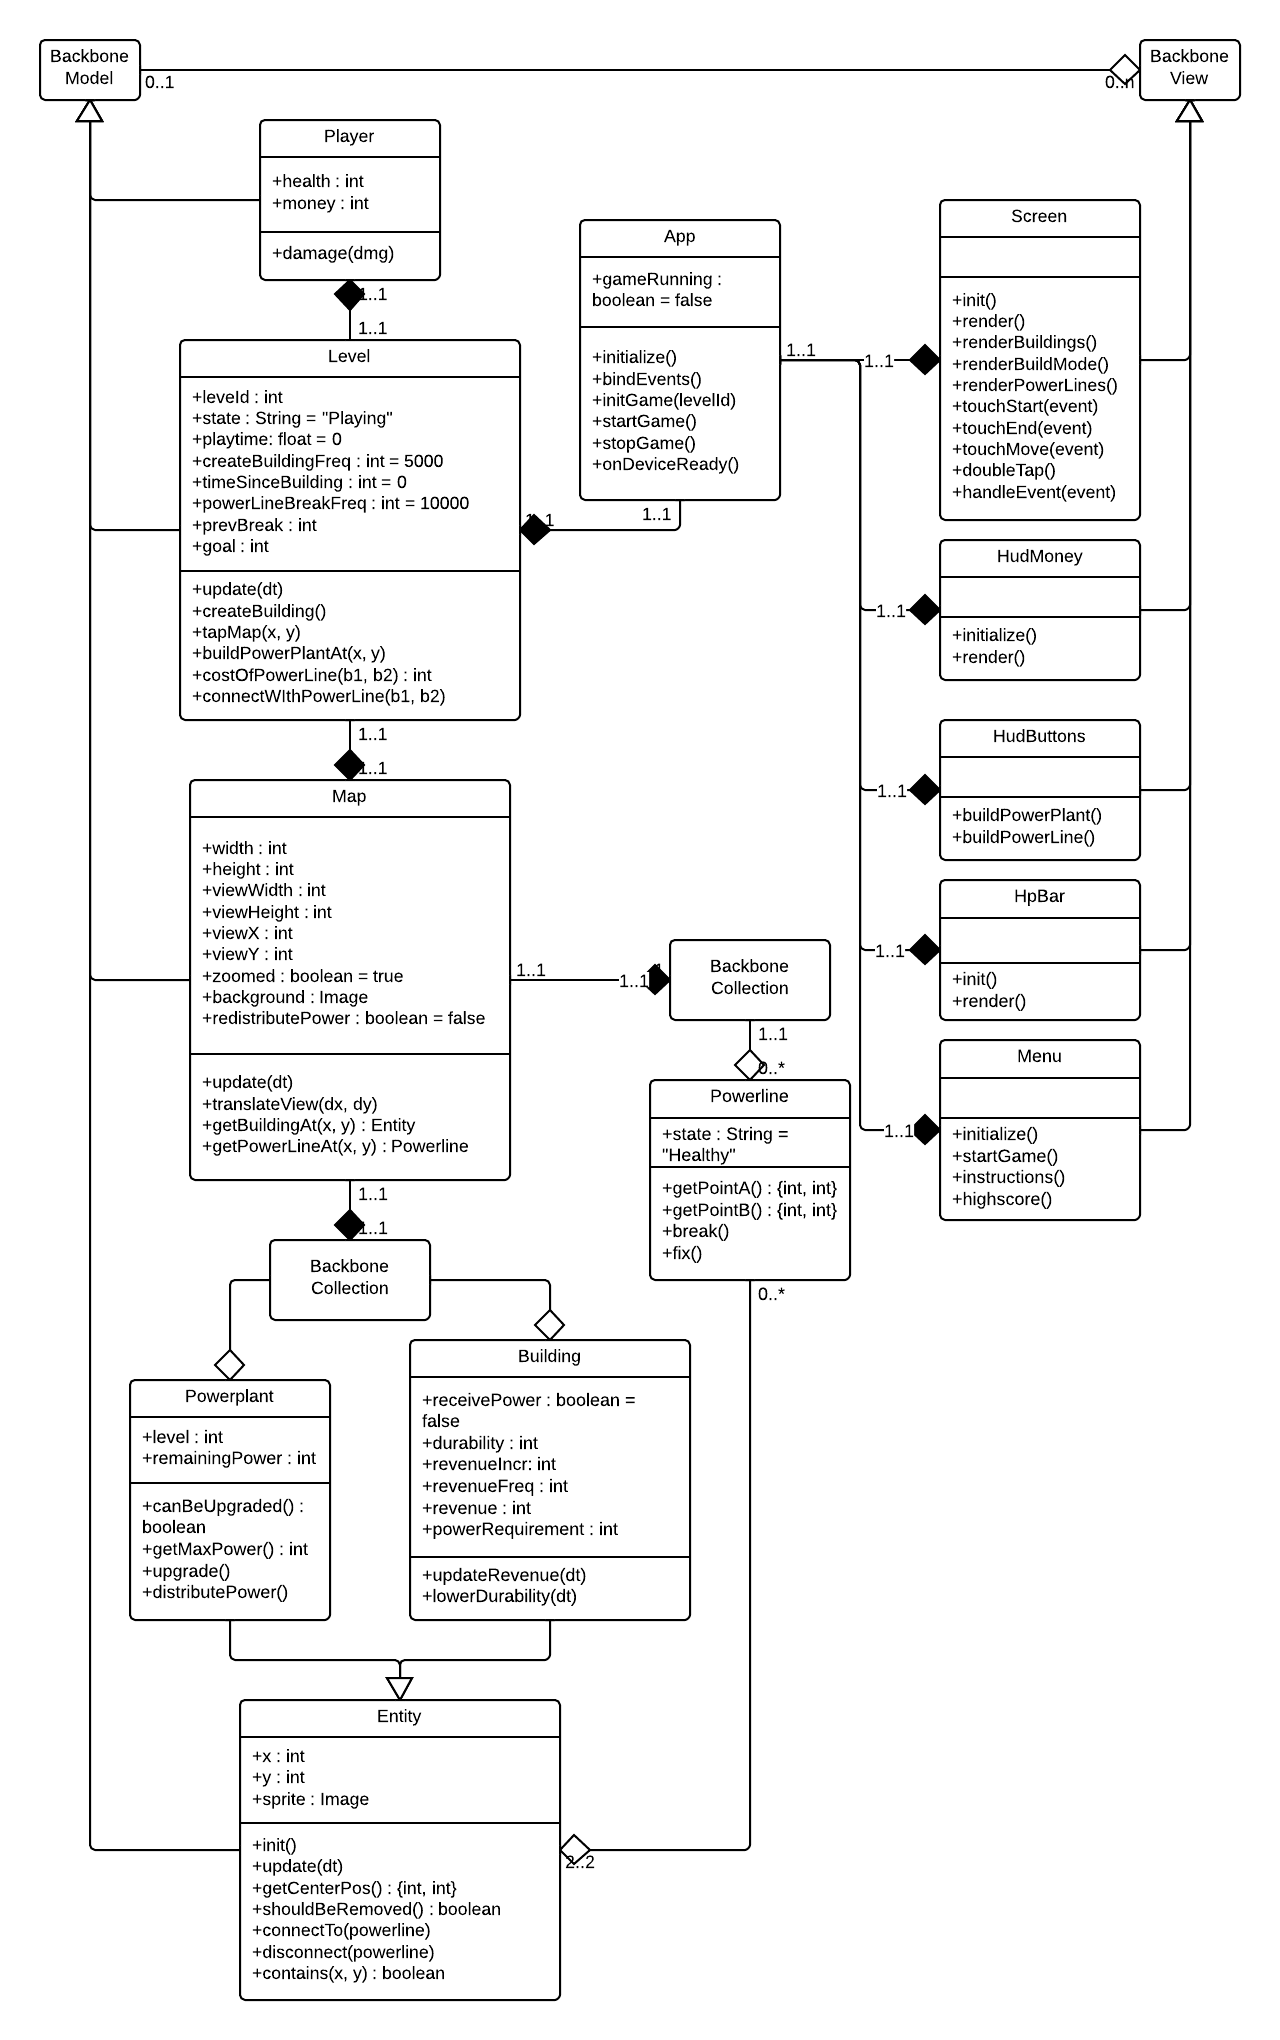
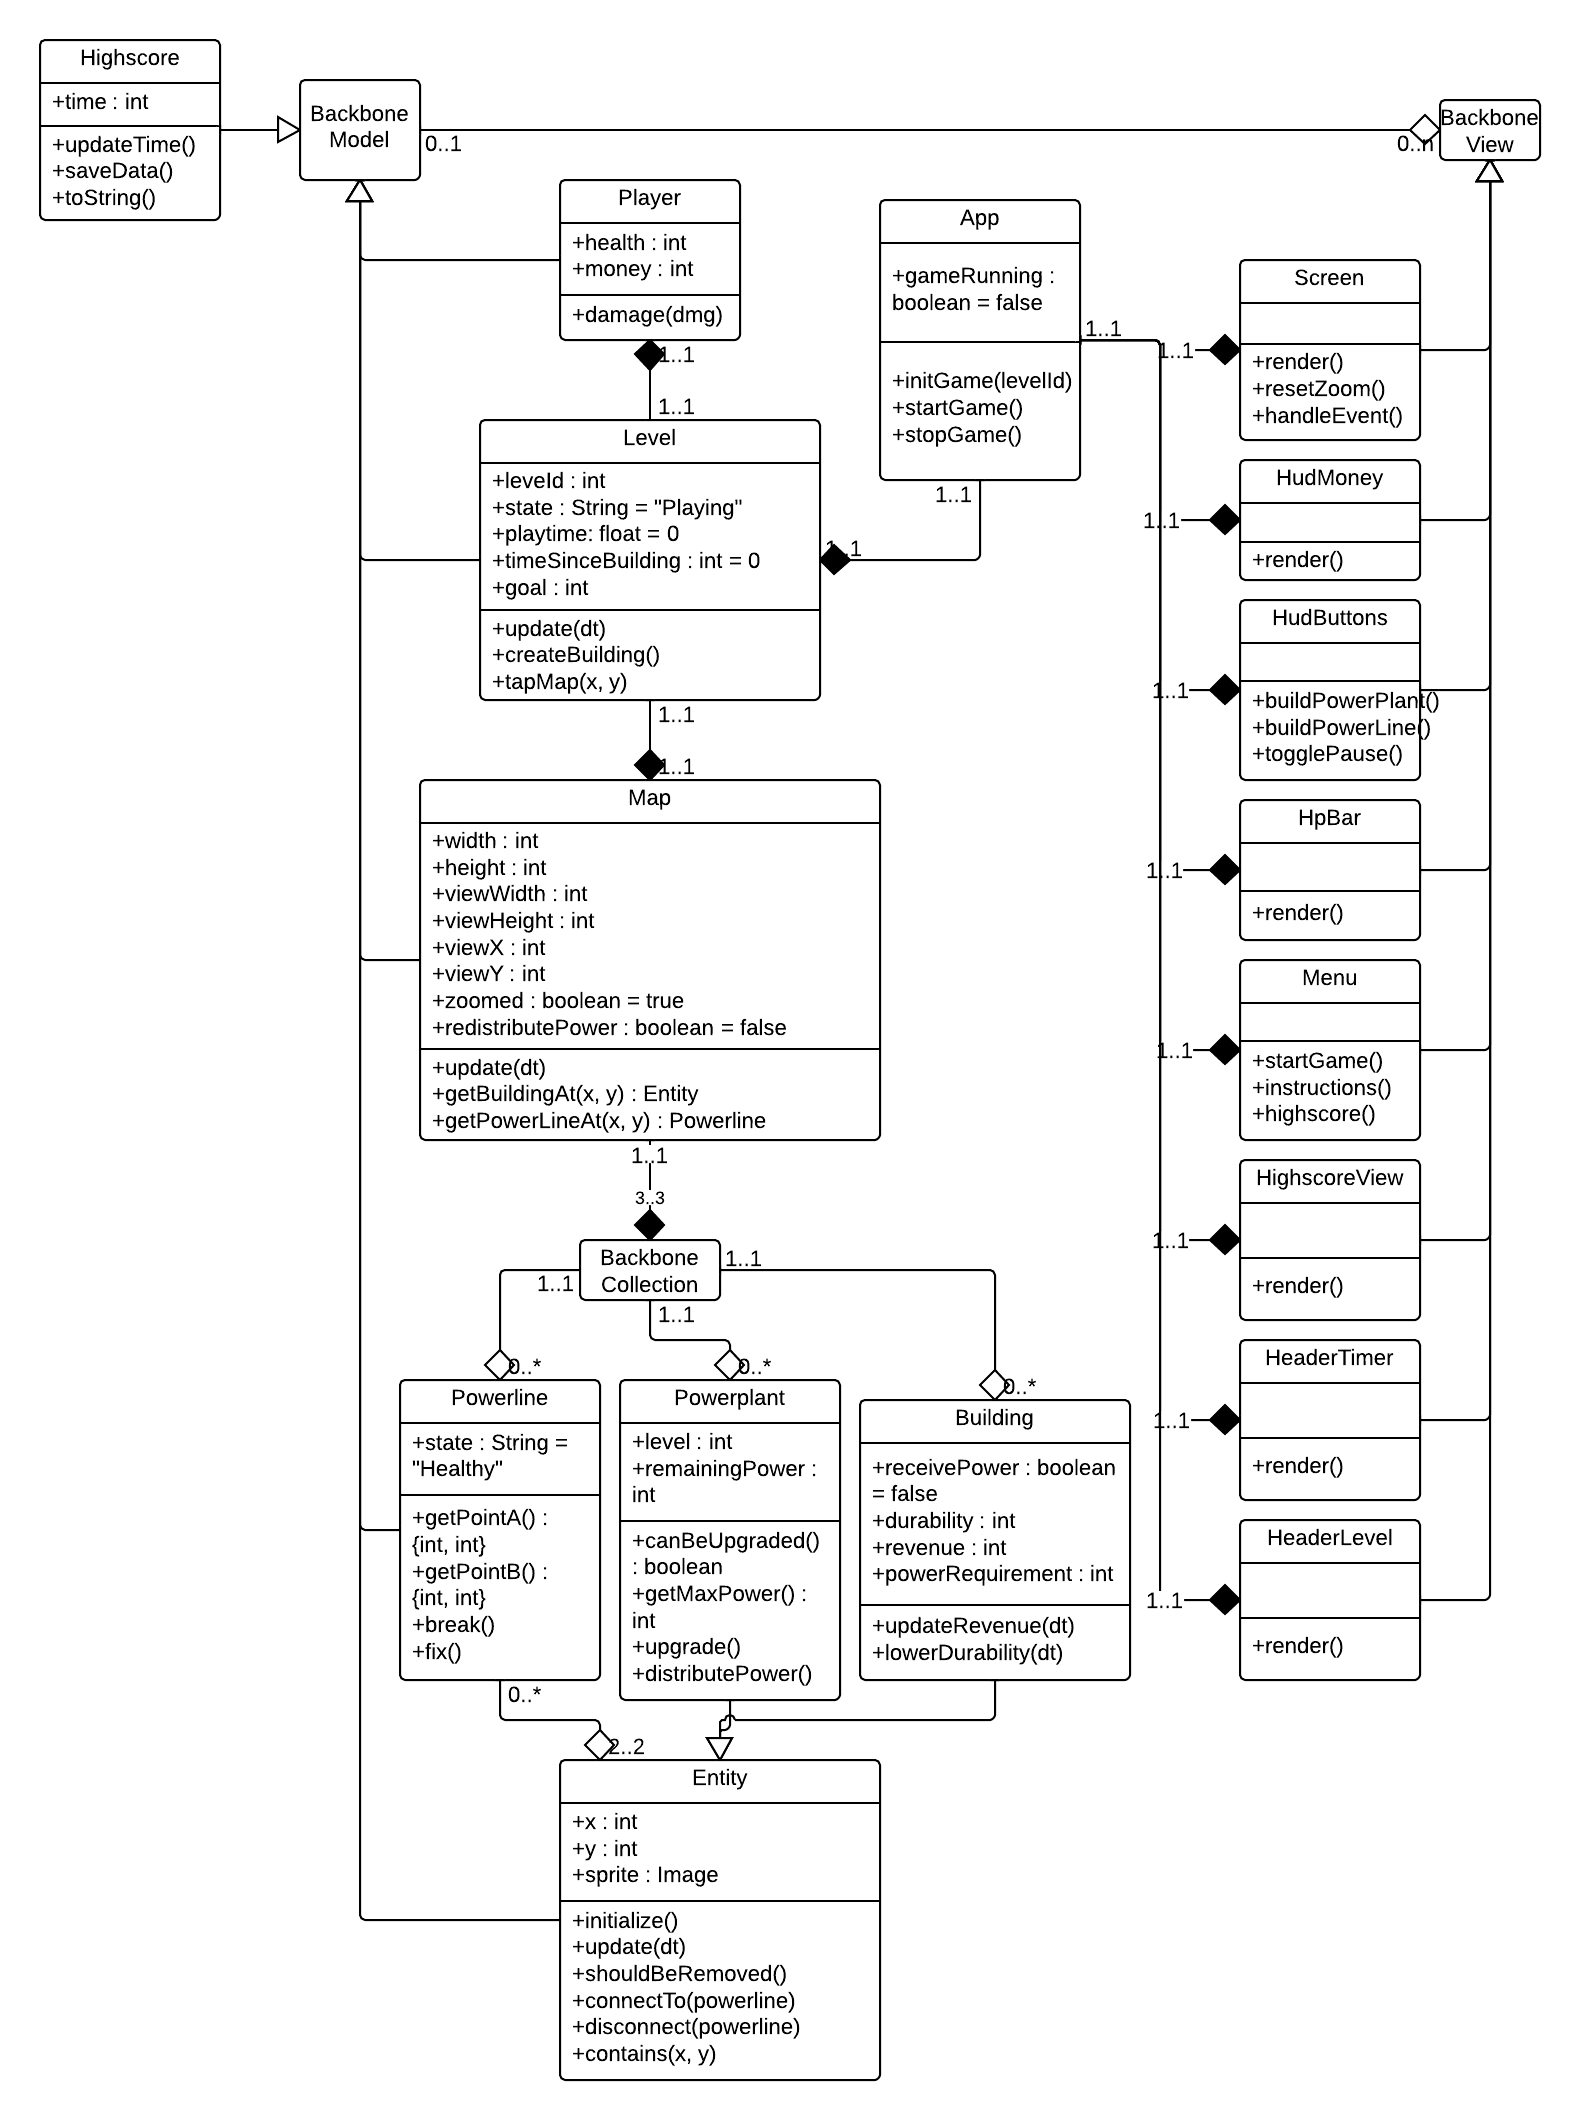
work on architecture views

diff --git a/architecture/views.tex b/architecture/views.tex
@@ -2,7 +2,10 @@
 
 \subsection*{Process View}
 
-	\includegraphics[width=\textwidth]{pictures/process_view_screen_flow}
+	\begin{figure}[H]
+	\centering
+	\includegraphics[width=\textwidth]{pictures/activity_diagram}
+	\end{figure}
 
 	The main menu screen is the entry point for the game. From there you can go to the "How to Play" screen, 
 	to read about how the game works. You can go to the "Level Select" screen to start a new level, or load the 
@@ -30,9 +33,13 @@
 	player's health. The Menu object receives input from the HTML and updates the game models.
 
 	\begin{figure}[H]
+	\begin{adjustwidth}{-50em}{-50em}
 	\centering
-	\includegraphics[width=\textwidth, height=\textheight, keepaspectratio]{pictures/class_diagram}
+	\includegraphics[scale=0.29]{pictures/class_diagram}
+	\end{adjustwidth}
 	\end{figure}
+
+	\newpage
 
 \subsection*{Physical View}
 

diff --git a/main.tex b/main.tex
@@ -21,6 +21,7 @@
 \usepackage{sidecap}
 \usepackage{appendix}
 \usepackage{fancyhdr}
+\usepackage{changepage}
 
 
 
